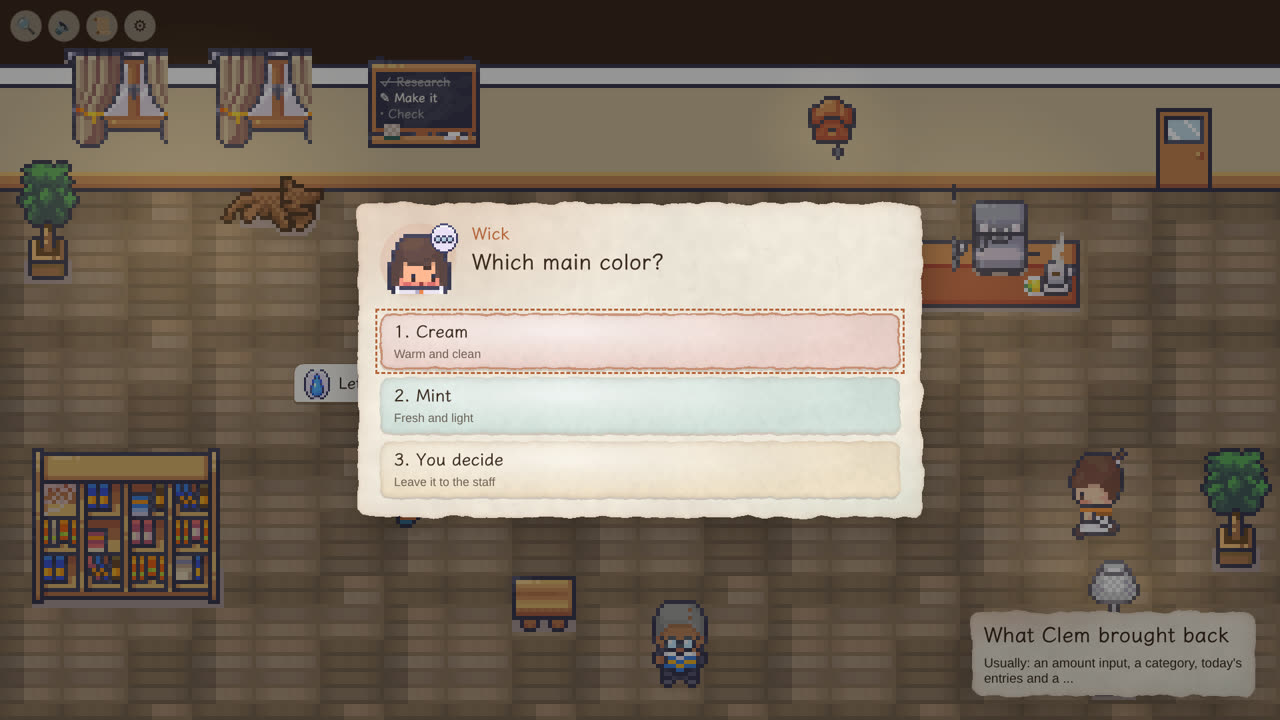
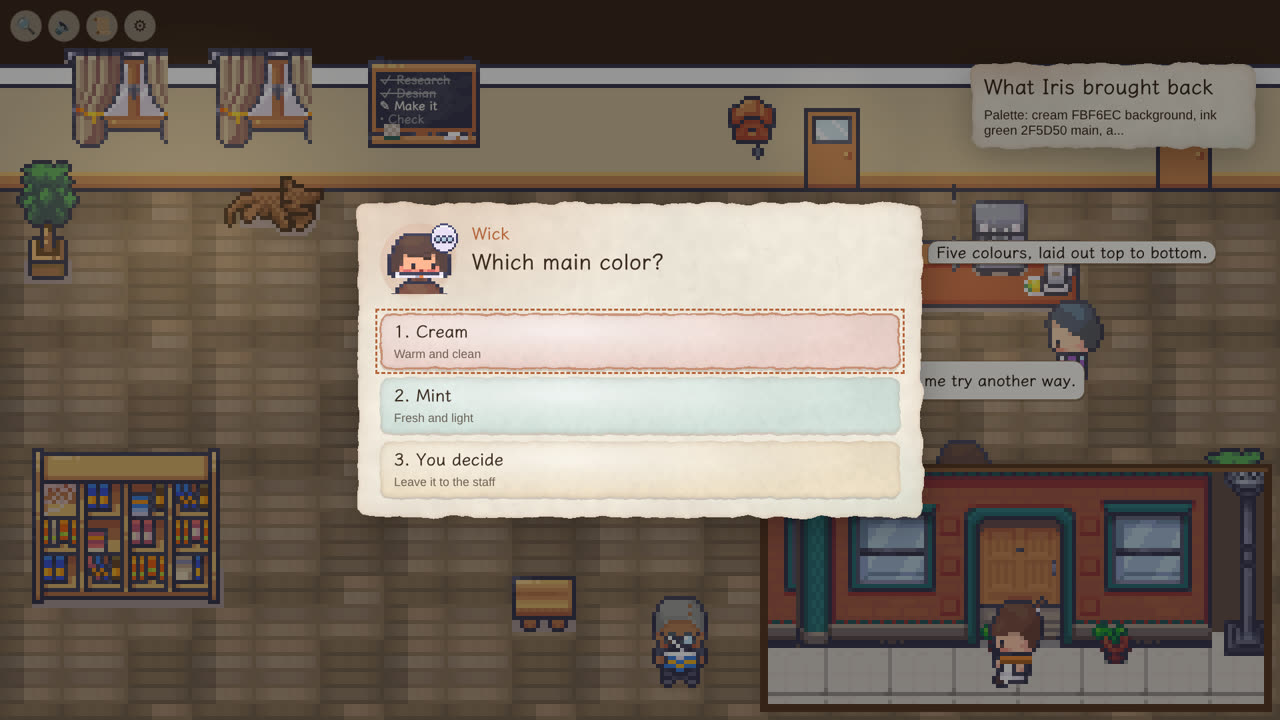
Site for 0.6.0: Iris the designer, a garden section and fresh screenshots

diff --git a/index.html b/index.html
@@ -18,7 +18,7 @@ footer{border-top:1px solid var(--line);padding:22px 0 40px;color:var(--soft);fo
 <body><header><div class="wrap"><img src="img/icon.png" alt=""><b>Lamplight Nook</b><nav><a href="zh.html">中文</a></nav></div></header>
 <main class="wrap"><section class="hero"><h1>Lamplight Nook</h1><p>A cozy pixel shop where a small team does computer jobs for you, powered by Claude.</p><span class="buy soon">Coming soon to Microsoft Store</span><span class="price">US$9.99, one-time. Windows 10/11.</span></section>
 <img class="shot" src="img/en-05-result.jpg" alt="">
-<p class="intro">Hand a commission slip to the counter and the staff get to work. Wick plans the job, Clem runs out to look things up, Flint checks everything before it leaves the shop, and Chestnut the cat supervises. Behind the pixels it is Claude Code, Anthropic's AI agent, working in a folder on your PC, and every step shows up as life in the shop.</p>
-<section class="feats"><div class="feat"><img class="shot" src="img/en-01-order.jpg" alt=""><h3>Ask for real things</h3><p>A small web page, a researched summary, an edited copy of a document, a plan for a messy folder.</p></div><div class="feat"><img class="shot" src="img/en-02-work-5.jpg" alt=""><h3>Watch them work</h3><p>Errands, chalkboard notes and checks instead of logs.</p></div><div class="feat"><img class="shot" src="img/en-04-question.jpg" alt=""><h3>You stay in charge</h3><p>Wick asks before choices; risky steps wait for your OK. Ring the bell to add a request mid-job.</p></div><div class="feat"><img class="shot" src="img/en-06-notebook.jpg" alt=""><h3>It remembers you</h3><p>Past jobs, your choices and the snags you hit, kept only on your PC.</p></div></section>
+<p class="intro">Hand a commission slip to the counter and the staff get to work. Wick plans the job, Clem runs out to look things up, Iris settles the colours and layout, Flint checks everything before it leaves the shop, and Chestnut the cat supervises. Behind the pixels it is Claude Code, Anthropic's AI agent, working in a folder on your PC, and every step shows up as life in the shop.</p>
+<section class="feats"><div class="feat"><img class="shot" src="img/en-01-order.jpg" alt=""><h3>Ask for real things</h3><p>A small web page, a researched summary, an edited copy of a document, a plan for a messy folder.</p></div><div class="feat"><img class="shot" src="img/en-02-work-5.jpg" alt=""><h3>Watch them work</h3><p>Errands, chalkboard notes and checks instead of logs.</p></div><div class="feat"><img class="shot" src="img/en-04-question.jpg" alt=""><h3>You stay in charge</h3><p>Wick asks before choices; risky steps wait for your OK. Ring the bell to add a request mid-job.</p></div><div class="feat"><img class="shot" src="img/en-06-notebook.jpg" alt=""><h3>It remembers you</h3><p>Past jobs, your choices and the snags you hit, kept only on your PC.</p></div><div class="feat"><img class="shot" src="img/en-07-garden.jpg" alt=""><h3>A shop that lives</h3><p>Weather and seasons from the calendar, holiday decorations, a back garden with Malt the dog and the hens, and neighbours who drop in.</p></div></section>
 <section class="need"><h2>What you need</h2><ul><li>Claude Code on your PC (free; the app walks you through installing it).</li><li>Your own Anthropic API key. You pay Anthropic for what the staff use, usually well under a dollar for a small job. Every job shows its cost, and you can set a cap.</li><li>No account, no subscription, no telemetry. Not available where Anthropic does not offer its API, including mainland China and Hong Kong.</li></ul></section></main>
 <footer><div class="wrap"><a href="privacy.html">Privacy</a><a href="terms.html">Terms of use</a><a href="mailto:24kplo@gmail.com">Support</a><p>Pixel art by LimeZu. Music by Alex Morgan (CC BY 4.0). Claude is a trademark of Anthropic.</p></div></footer></body></html>

diff --git a/zh.html b/zh.html
@@ -18,7 +18,7 @@ footer{border-top:1px solid var(--line);padding:22px 0 40px;color:var(--soft);fo
 <body><header><div class="wrap"><img src="img/icon.png" alt=""><b>小灯屋</b><nav><a href="index.html">English</a></nav></div></header>
 <main class="wrap"><section class="hero"><h1>小灯屋</h1><p>一间温馨的像素小店，店员们用 Claude 帮你把电脑上的活儿做好。</p><span class="buy soon">即将上架 Microsoft Store</span><span class="price">9.99 美元买断，Windows 10/11。</span></section>
 <img class="shot" src="img/zh-05-result.jpg" alt="">
-<p class="intro">在柜台递一张委托单，店员们就开工了。阿灯接单定计划，小橘跑腿查资料，老石在成品出店前把关，店猫栗子负责监工。像素背后是 Anthropic 的 AI 代理 Claude Code，它在你电脑上的一个文件夹里干活，每一步都变成店里的日常。</p>
-<section class="feats"><div class="feat"><img class="shot" src="img/zh-01-order.jpg" alt=""><h3>委托真正的事</h3><p>做个小网页、查资料写总结、改一份文档的复制件、给乱糟糟的文件夹出整理方案。</p></div><div class="feat"><img class="shot" src="img/zh-02-work-5.jpg" alt=""><h3>看着他们忙</h3><p>跑腿、黑板和检查，代替一行行日志。</p></div><div class="feat"><img class="shot" src="img/zh-04-question.jpg" alt=""><h3>做主的是你</h3><p>要选的地方阿灯会来问；有风险的一步等你点头。中途摇铃就能加要求。</p></div><div class="feat"><img class="shot" src="img/zh-06-notebook.jpg" alt=""><h3>小店记得你</h3><p>做过的事、你的选择、踩过的坑，只存在你的电脑上。</p></div></section>
+<p class="intro">在柜台递一张委托单，店员们就开工了。阿灯接单定计划，小橘跑腿查资料，青黛先定配色和布局，老石在成品出店前把关，店猫栗子负责监工。像素背后是 Anthropic 的 AI 代理 Claude Code，它在你电脑上的一个文件夹里干活，每一步都变成店里的日常。</p>
+<section class="feats"><div class="feat"><img class="shot" src="img/zh-01-order.jpg" alt=""><h3>委托真正的事</h3><p>做个小网页、查资料写总结、改一份文档的复制件、给乱糟糟的文件夹出整理方案。</p></div><div class="feat"><img class="shot" src="img/zh-02-work-5.jpg" alt=""><h3>看着他们忙</h3><p>跑腿、黑板和检查，代替一行行日志。</p></div><div class="feat"><img class="shot" src="img/zh-04-question.jpg" alt=""><h3>做主的是你</h3><p>要选的地方阿灯会来问；有风险的一步等你点头。中途摇铃就能加要求。</p></div><div class="feat"><img class="shot" src="img/zh-06-notebook.jpg" alt=""><h3>小店记得你</h3><p>做过的事、你的选择、踩过的坑，只存在你的电脑上。</p></div><div class="feat"><img class="shot" src="img/zh-07-garden.jpg" alt=""><h3>小店有日子</h3><p>天气和季节跟着日历走，节日会挂装饰；后院有狗麦芽和几只母鸡，街坊也会来串门。</p></div></section>
 <section class="need"><h2>你需要</h2><ul><li>电脑上装好 Claude Code（免费，应用里会带你装）。</li><li>你自己的 Anthropic API Key。店员用多少，你直接付给 Anthropic，小活儿一般不到 1 美元；每单花费都看得到，还能设上限。</li><li>不用注册、不订阅、不收集使用数据。Anthropic 不提供 API 的地区用不了，包括中国大陆和香港。</li></ul></section></main>
 <footer><div class="wrap"><a href="privacy-zh.html">隐私说明</a><a href="terms-zh.html">用户协议</a><a href="mailto:24kplo@gmail.com">联系我们</a><p>像素美术 LimeZu，音乐 Alex Morgan（CC BY 4.0）。Claude 是 Anthropic 的商标。</p></div></footer></body></html>
